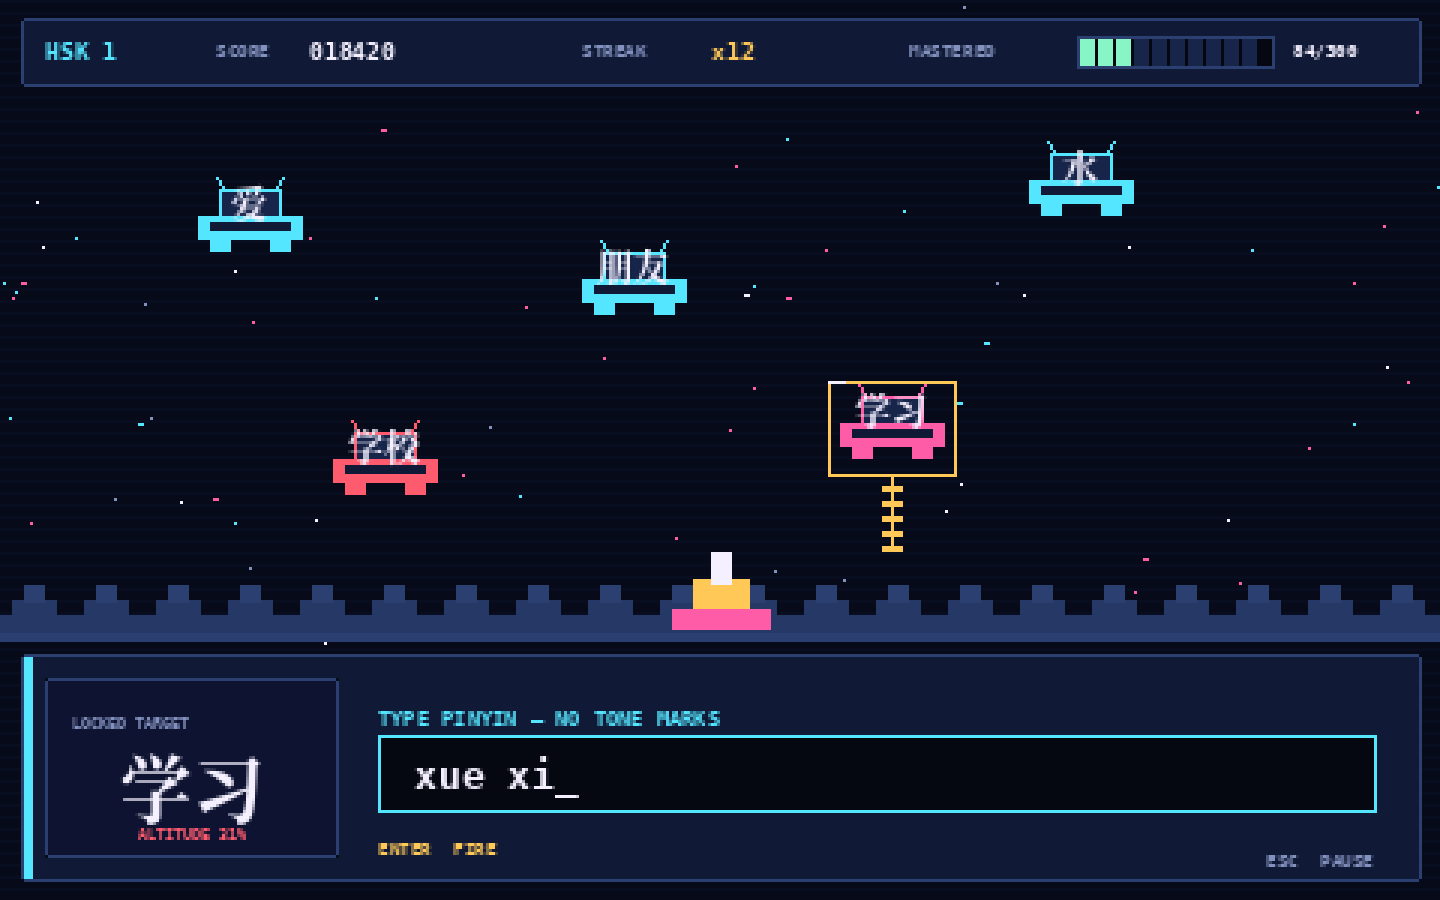
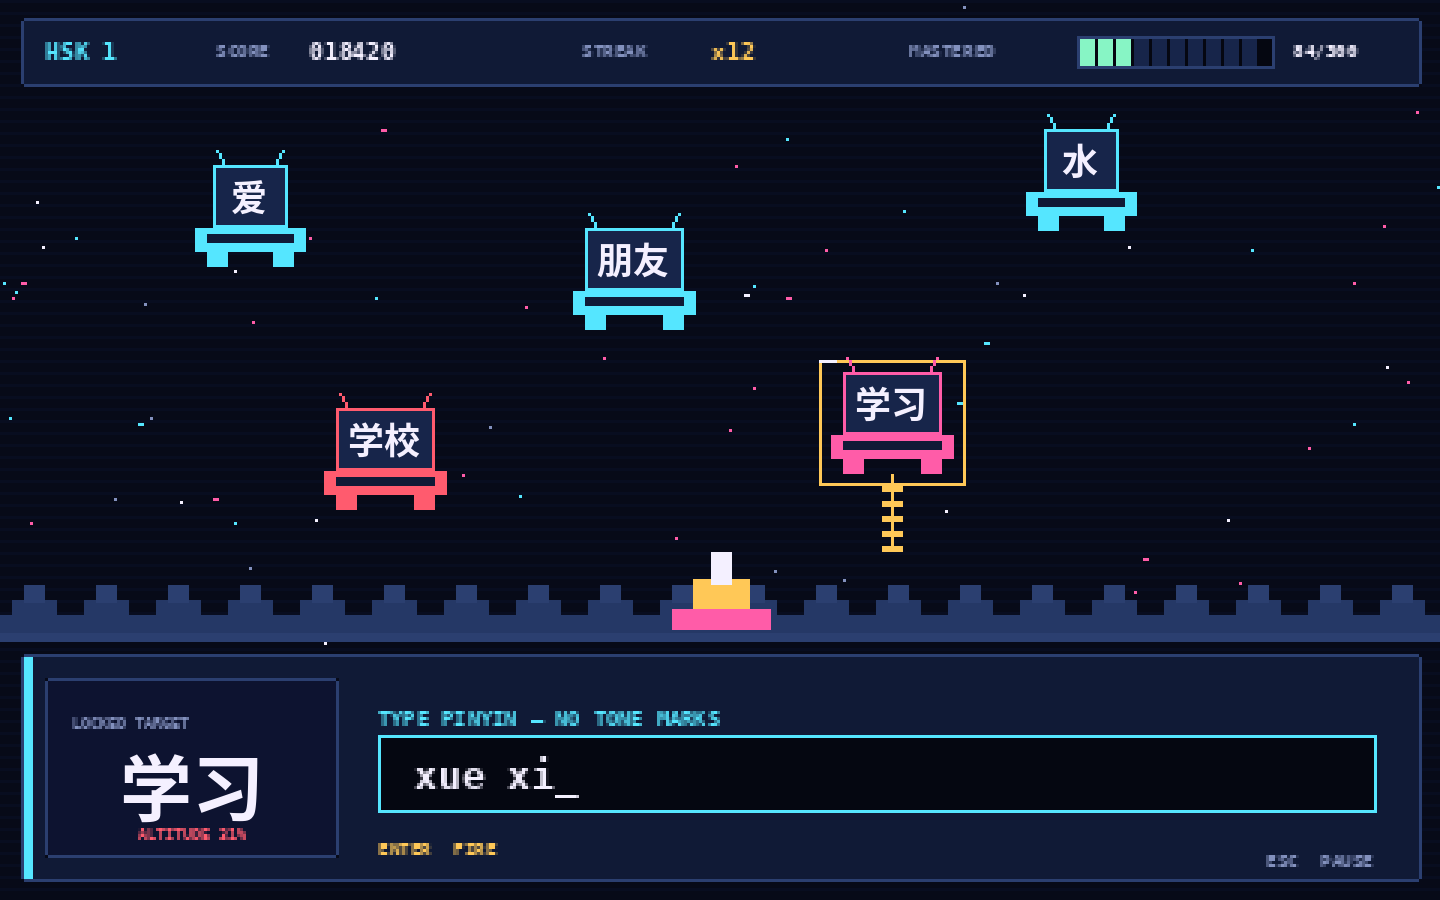
CJK graphics fix for mockups

diff --git a/designs/render_mockups.py b/designs/render_mockups.py
@@ -37,7 +37,13 @@ C = {
 MONO = "/usr/share/fonts/truetype/dejavu/DejaVuSansMono.ttf"
 MONO_BOLD = "/usr/share/fonts/truetype/dejavu/DejaVuSansMono-Bold.ttf"
 CJK = "/usr/share/fonts/opentype/noto/NotoSansCJK-Regular.ttc"
-CJK_BOLD = "/usr/share/fonts/opentype/noto/NotoSerifCJK-Bold.ttc"
+CJK_BOLD = "/usr/share/fonts/opentype/noto/NotoSansCJK-Bold.ttc"
+
+# Latin UI and pixel art are composed at the low logical resolution and scaled
+# with nearest-neighbour filtering. CJK glyphs are intentionally deferred and
+# rendered directly at output resolution so their strokes remain smooth and
+# readable, as required by UI_SPEC.md.
+_HIGH_RES_CJK: list[tuple[tuple[int, int], str, int, str, bool, str | None]] = []
 
 
 def font(size: int, bold: bool = False, cjk: bool = False) -> ImageFont.FreeTypeFont:
@@ -47,7 +53,10 @@ def font(size: int, bold: bool = False, cjk: bool = False) -> ImageFont.FreeType
 def txt(d: ImageDraw.ImageDraw, xy: tuple[int, int], value: str, size: int = 7,
         fill: str = C["white"], bold: bool = False, cjk: bool = False,
         anchor: str | None = None) -> None:
-    d.text(xy, value, font=font(size, bold, cjk), fill=fill, anchor=anchor,
+    if cjk:
+        _HIGH_RES_CJK.append((xy, value, size, fill, bold, anchor))
+        return
+    d.text(xy, value, font=font(size, bold, False), fill=fill, anchor=anchor,
            stroke_width=0)
 
 
@@ -100,21 +109,44 @@ def keycap(d: ImageDraw.ImageDraw, x: int, y: int, key: str, active: bool = Fals
 
 
 def alien(d: ImageDraw.ImageDraw, x: int, y: int, hanzi: str, active: bool = False,
-          danger: bool = False, small: bool = False) -> None:
-    w = 34 if not small else 29
+          danger: bool = False, small: bool = False, show_hanzi: bool = True) -> None:
+    glyph_size = 10 if small else 12
+    # Expand the cockpit to the measured character count instead of forcing
+    # multi-character words through the old one-glyph window. The generous
+    # vertical area keeps ascenders/descenders away from the saucer bezel.
+    glyph_count = max(1, len(hanzi))
+    screen_w = max(22 if small else 24, glyph_count * glyph_size + 8)
+    body_w = max(31 if small else 36, screen_w + 8)
+    screen_half = screen_w // 2
+    body_half = body_w // 2
+    screen_top = y - (13 if small else 15)
+    screen_bottom = y + 5
+    body_top = screen_bottom + 1
+    body_bottom = body_top + 7
+    leg_bottom = body_bottom + 5
     color = C["red"] if danger else C["pink"] if active else C["cyan"]
     if active:
-        d.rectangle((x - w // 2 - 4, y - 12, x + w // 2 + 4, y + 19), outline=C["orange"])
-        d.line((x - w // 2 - 4, y - 12, x - w // 2 + 1, y - 12), fill=C["white"])
-    # Antennae and cockpit.
-    d.line((x - 8, y - 7, x - 11, y - 11), fill=color)
-    d.line((x + 8, y - 7, x + 11, y - 11), fill=color)
-    d.rectangle((x - 10, y - 7, x + 10, y + 2), fill=C["panel2"], outline=color)
-    d.rectangle((x - w // 2, y + 2, x + w // 2, y + 9), fill=color)
-    d.rectangle((x - w // 2 + 4, y + 4, x + w // 2 - 4, y + 6), fill=C["panel"])
-    d.rectangle((x - 13, y + 10, x - 7, y + 13), fill=color)
-    d.rectangle((x + 7, y + 10, x + 13, y + 13), fill=color)
-    txt(d, (x, y - 2), hanzi, 12 if not small else 10, C["white"], True, True, "mm")
+        d.rectangle((x - body_half - 4, screen_top - 4,
+                     x + body_half + 4, leg_bottom + 4), outline=C["orange"])
+        d.line((x - body_half - 4, screen_top - 4,
+                x - body_half + 1, screen_top - 4), fill=C["white"])
+    # Antennae, enlarged character screen, and saucer body.
+    d.line((x - screen_half + 4, screen_top,
+            x - screen_half + 1, screen_top - 5), fill=color)
+    d.line((x + screen_half - 4, screen_top,
+            x + screen_half - 1, screen_top - 5), fill=color)
+    d.rectangle((x - screen_half, screen_top, x + screen_half, screen_bottom),
+                fill=C["panel2"], outline=color)
+    d.rectangle((x - body_half, body_top, x + body_half, body_bottom), fill=color)
+    d.rectangle((x - body_half + 4, body_top + 2,
+                 x + body_half - 4, body_top + 4), fill=C["panel"])
+    d.rectangle((x - body_half + 4, body_bottom + 1,
+                 x - body_half + 10, leg_bottom), fill=color)
+    d.rectangle((x + body_half - 10, body_bottom + 1,
+                 x + body_half - 4, leg_bottom), fill=color)
+    if show_hanzi:
+        txt(d, (x, (screen_top + screen_bottom) // 2), hanzi, glyph_size,
+            C["white"], True, True, "mm")
 
 
 def base(d: ImageDraw.ImageDraw, y: int = 195) -> None:
@@ -143,6 +175,7 @@ def hud(d: ImageDraw.ImageDraw, streak: str = "12", score: str = "018420",
 
 
 def new_canvas(seed: int, arena: bool = False) -> tuple[Image.Image, ImageDraw.ImageDraw]:
+    _HIGH_RES_CJK.clear()
     im = Image.new("RGB", (W, H), C["space"])
     d = ImageDraw.Draw(im)
     stars(d, seed, 0, 215 if arena else H)
@@ -151,8 +184,14 @@ def new_canvas(seed: int, arena: bool = False) -> tuple[Image.Image, ImageDraw.I
 
 
 def save(im: Image.Image, name: str, scale: int = SCALE) -> None:
-    im.resize((im.width * scale, im.height * scale), Image.Resampling.NEAREST).save(OUT / name,
-                                                                                 optimize=True)
+    output = im.resize((im.width * scale, im.height * scale), Image.Resampling.NEAREST)
+    high_res = ImageDraw.Draw(output)
+    for (x, y), value, size, fill, bold, anchor in _HIGH_RES_CJK:
+        high_res.text((x * scale, y * scale), value,
+                      font=font(size * scale, bold, True), fill=fill,
+                      anchor=anchor, stroke_width=0)
+    output.save(OUT / name, optimize=True)
+    _HIGH_RES_CJK.clear()
 
 
 def deck_select() -> None:
@@ -228,7 +267,7 @@ def battle_meaning() -> None:
     panel(d, (15, 222, 122, 287), C["space2"], C["line"])
     txt(d, (25, 231), "PINYIN CONFIRMED", 5, C["mint"], True)
     txt(d, (68, 249), "学习", 19, C["white"], True, True, "mm")
-    txt(d, (68, 266), "xuéxí  ♪", 8, C["cyan"], True, cjk=True, anchor="mm")
+    txt(d, (68, 266), "xuéxí  ♪", 8, C["cyan"], True, anchor="mm")
     txt(d, (68, 280), "SELECT MEANING", 5, C["orange"], True, anchor="mm")
     choices = [("A", "to practice"), ("S", "to explain"), ("D", "to study / learn"),
                ("F", "to prepare"), ("H", "a classroom"), ("J", "a question"),
@@ -252,18 +291,20 @@ def miss_feedback() -> None:
     im, d = new_canvas(44, True)
     hud(d, "00", "018668")
     # Danger beam and landed alien.
-    alien(d, 80, 72, "朋友")
-    alien(d, 352, 66, "水")
+    # These background enemies sit behind the later correction panel; omit
+    # their deferred glyph layer so it cannot draw over that foreground panel.
+    alien(d, 80, 72, "朋友", show_hanzi=False)
+    alien(d, 352, 66, "水", show_hanzi=False)
     d.polygon([(183, 108), (219, 108), (240, 199), (161, 199)], fill="#25132B")
     for x in range(166, 238, 9):
         d.line((201, 112, x, 196), fill=C["red"])
-    alien(d, 201, 181, "学习", danger=True)
+    alien(d, 201, 181, "学习", danger=True, show_hanzi=False)
     base(d)
     # Feedback overlay.
     panel(d, (91, 45, 389, 173), C["panel"], C["red"], C["red"])
     txt(d, (240, 61), "// SIGNAL BREACH //", 9, C["red"], True, anchor="mm")
     txt(d, (240, 84), "学习", 26, C["white"], True, True, "mm")
-    txt(d, (240, 105), "xuéxí", 10, C["cyan"], True, cjk=True, anchor="mm")
+    txt(d, (240, 105), "xuéxí", 10, C["cyan"], True, anchor="mm")
     txt(d, (240, 123), "TO STUDY; TO LEARN", 9, C["orange"], True, anchor="mm")
     d.line((110, 137, 370, 137), fill=C["line"])
     txt(d, (115, 151), "STREAK RESET", 6, C["muted"], True)
@@ -348,6 +389,7 @@ def settings() -> None:
 
 
 def mobile() -> None:
+    _HIGH_RES_CJK.clear()
     w, h = 240, 420
     im = Image.new("RGB", (w, h), C["space"])
     d = ImageDraw.Draw(im)
@@ -370,7 +412,7 @@ def mobile() -> None:
     d.rectangle((117, 213, 123, 224), fill=C["white"])
     panel(d, (5, 250, 235, 414), C["panel"], C["line"], C["mint"])
     txt(d, (15, 261), "学习", 15, C["white"], True, True)
-    txt(d, (58, 262), "xuéxí  ♪", 7, C["cyan"], True, cjk=True)
+    txt(d, (58, 262), "xuéxí  ♪", 7, C["cyan"], True)
     txt(d, (225, 262), "TAP A MEANING", 5, C["orange"], True, anchor="ra")
     choices = [("A", "to practice"), ("S", "to explain"), ("D", "to study / learn"),
                ("F", "to prepare"), ("H", "a classroom"), ("J", "a question"),

diff --git a/designs/UI_SPEC.md b/designs/UI_SPEC.md
@@ -70,6 +70,8 @@ Configure Phaser:
 
 Use a 480×210 logical battle arena on desktop references; the React command panel occupies the rest of the viewport. World positions derive from normalized lane/progress, not DOM pixel measurements.
 
+**Mixed-resolution rule:** sprites, panels, particles, and Latin arcade labels may be drawn at logical resolution and nearest-neighbour scaled, but CJK text must not be baked into that low-resolution layer. Render every Hanzi at output/device resolution with an anti-aliased Noto/Fusion CJK font (for example a high-resolution Phaser Text overlay or synchronized DOM/canvas text layer). Enemy Hanzi should retain smooth, high-resolution strokes even while the saucer beneath it remains pixel art. The supplied mockups use this same split-rendering treatment.
+
 ## 3. Screen map
 
 ```text
@@ -156,7 +158,7 @@ Hanzi sizing by display length:
 | 5–7 | smaller single line if readable, otherwise two balanced lines |
 | >7 | fit within max box and mirror full text in command panel; never truncate semantically |
 
-The importer currently contains mostly short vocabulary, but layout must measure actual glyph bounds.
+The importer currently contains mostly short vocabulary, but layout must measure actual glyph bounds. The alien's dark character screen and saucer body expand with those measured bounds: keep at least 12 output pixels of horizontal padding and 8 output pixels of vertical padding around the CJK ink box. Antennae, screen borders, body bezels, targeting corners, and danger effects must remain outside that padded box—no alien graphic may cross or crop a character stroke.
 
 ### Base
 

diff --git a/designs/MAIN.md b/designs/MAIN.md
@@ -53,7 +53,7 @@ This document is the implementation authority. Supporting details live in:
 
 ## 2. Reference experience
 
-The PNGs are visual acceptance references rather than exact pixel-coordinate mandates. Implementations should match their hierarchy, palette, density, and state clarity.
+The PNGs are visual acceptance references rather than exact pixel-coordinate mandates. Implementations should match their hierarchy, palette, density, and state clarity. Their CJK glyphs are intentionally rendered at full output resolution over the low-resolution pixel-art layer; implementation agents must preserve that mixed-resolution treatment.
 
 | State | Reference |
 |---|---|
